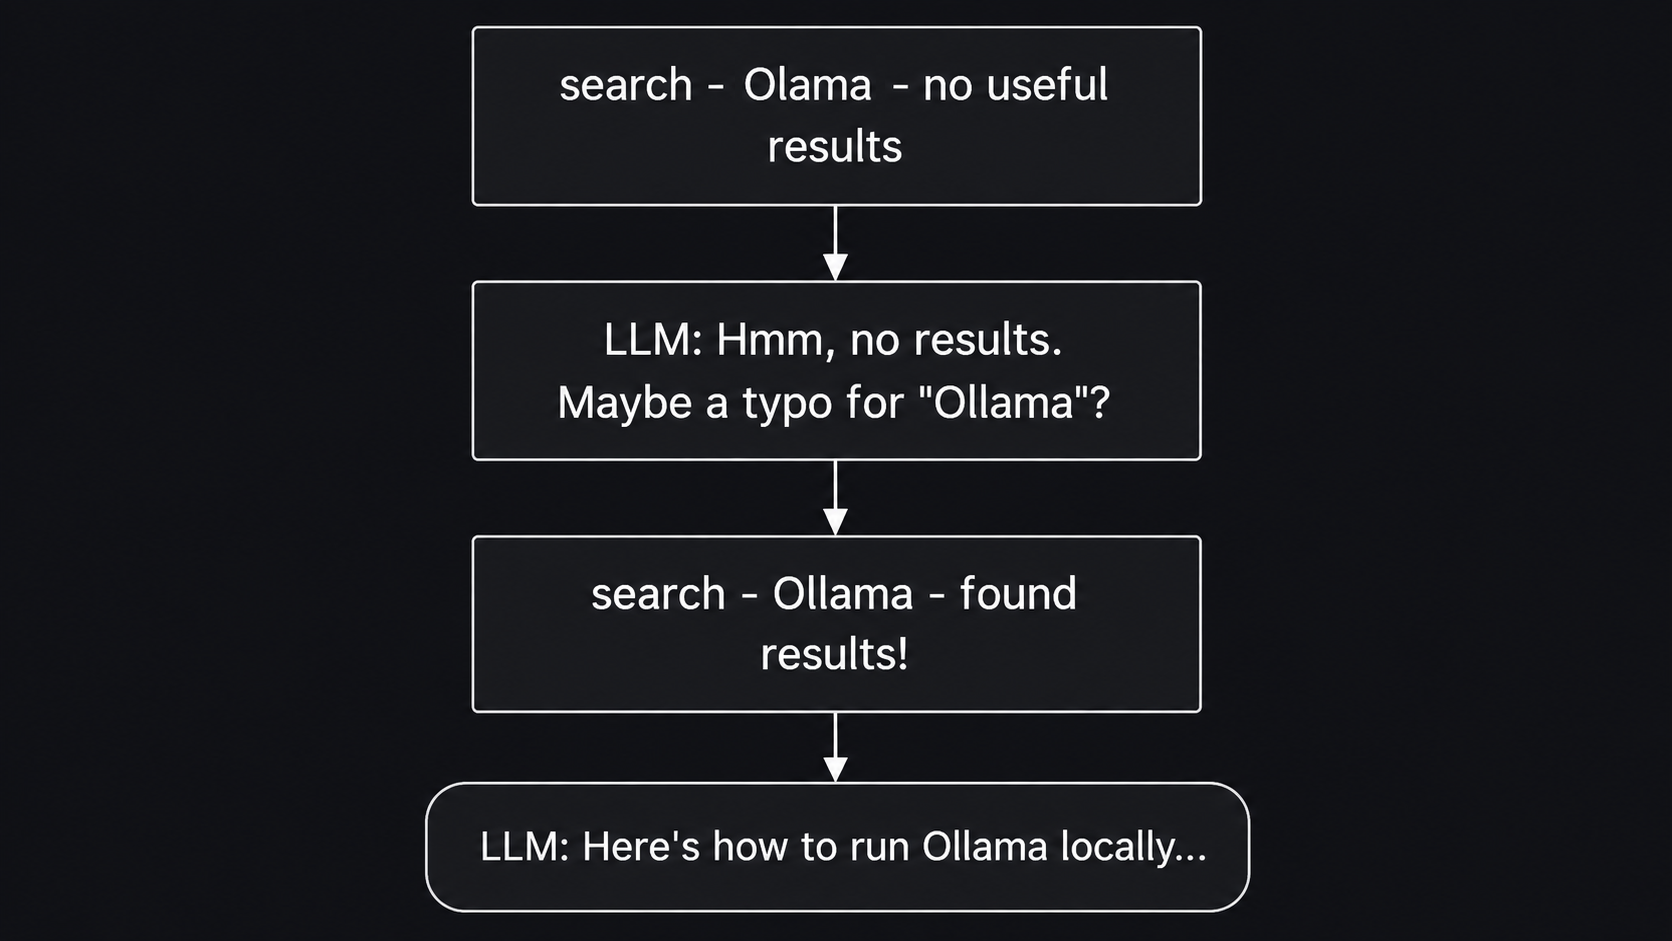
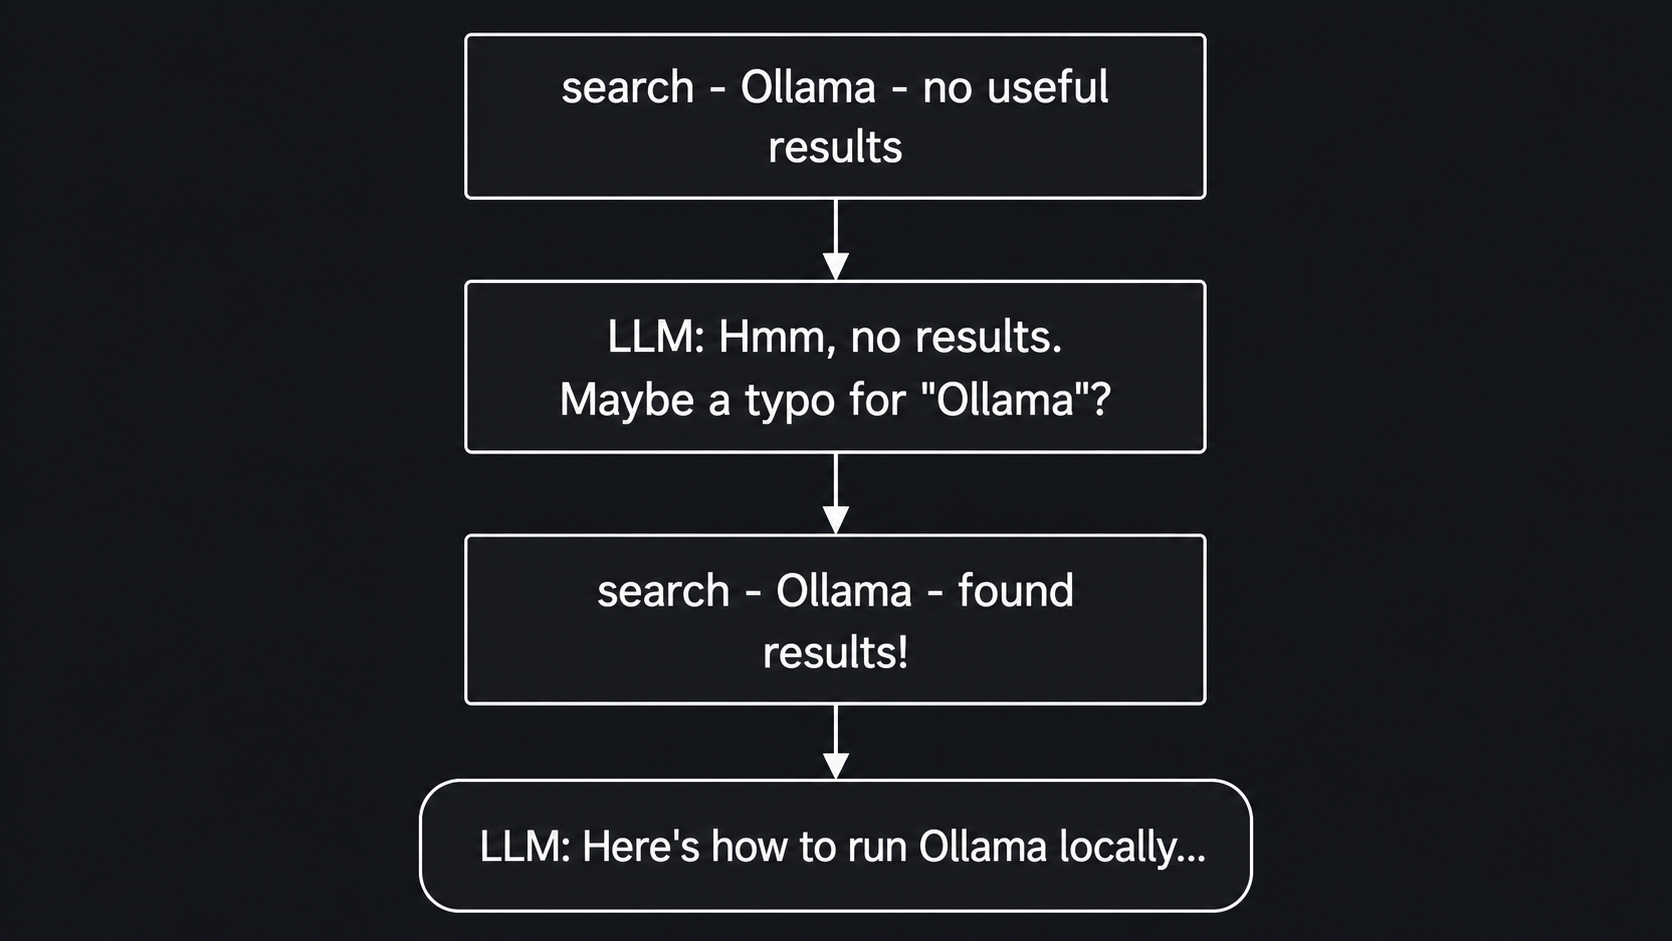
Restore provenance for agentic retry illustration

diff --git a/.tmp/llm-agentic-vector-image-rollout.md b/.tmp/llm-agentic-vector-image-rollout.md
@@ -361,3 +361,14 @@ checked before acceptance.
   evidence. Deterministic crop `(480x300+50+30)` plus Lanczos upscaling removes
   browser tabs, webcam, and Zoom chrome while preserving the URL, command,
   and file layout verbatim.
+
+## Focused repair batch 3: agentic retry-flow provenance (2026-09-09)
+
+The published PNG was regenerated with the built-in imagegen tool from the
+original non-crisp workshop JPG and a bounded crop. The prior clean PNG was
+also supplied only as a semantic/layout reference. The selected output is a
+genuine redraw with C2PA metadata; it is not an upscale or sharpened copy.
+
+| Active reference | Source/reference inputs | Imagegen output | Verified invariant |
+|---|---|---|---|
[1 lines of base64/hex data omitted]
